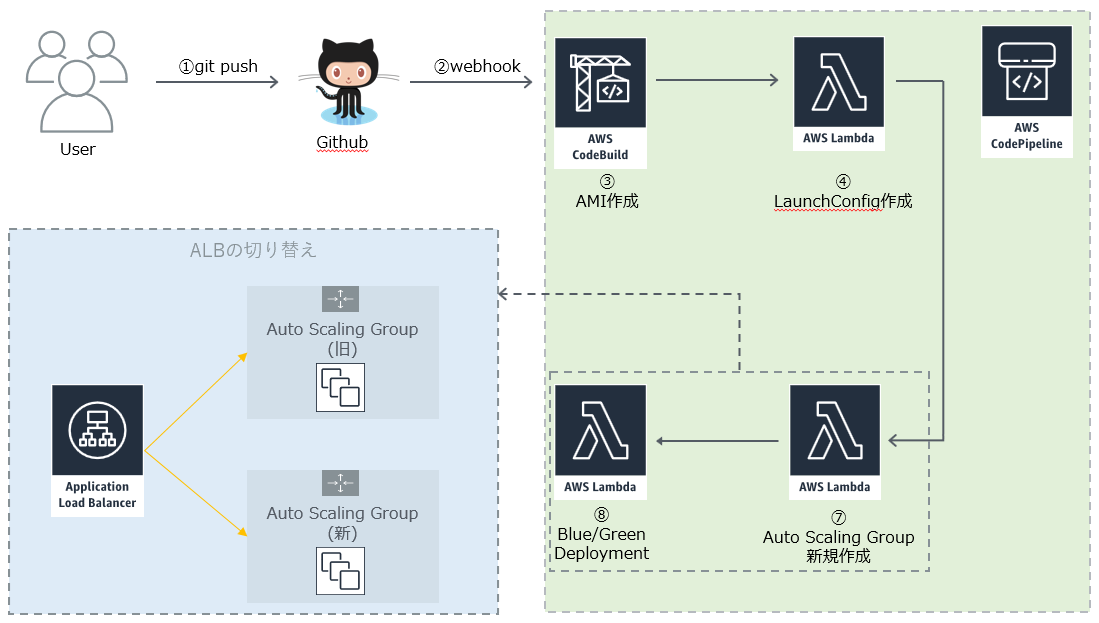
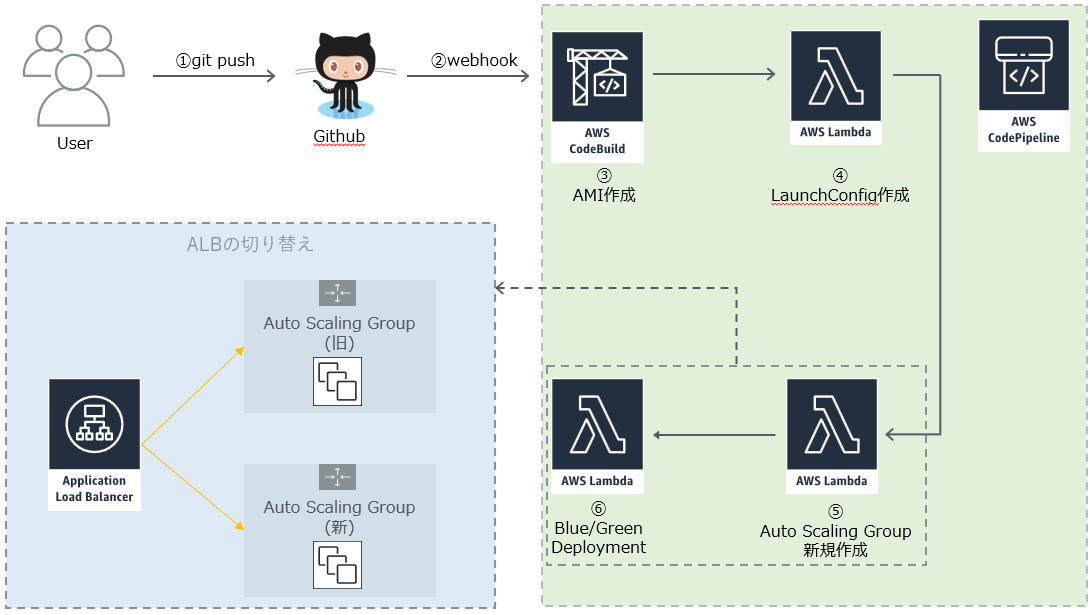
Modify README&Image

diff --git a/README.md b/README.md
@@ -1,14 +1,28 @@
-- 実行の流れ
-  1．Git push
-  2．Code Pipelineで検知
-  3．Code Build(1)を実行
-      - DokcerにPackerをインストール&実行
-      - PackerのイメージからEC2作成
-      - 作成したEC2でAnsible実行
-      - AMIを作成
-  4．Code Build(2)を実行
-      - テスト？
-  5．Code Deploy
+【AWS】AutoSCaling環境でのCI/CD
+==============================
 
-参考：
+# CI/CDの流れ
+
+![CI/Cd](https://github.com/Kohei040/aws_code_series_validation/raw/test/image/CICD_Flow.PNG)
+
+1. githubへpush
+1. CodePipelineで検知
+1. [CodeBuild]AMI作成
+1. [Lambda]LaunchConfig作成
+1. [Lambda]AutoScalingGroup作成
+1. [Lambda]Blue/Green deploymnet実施
+
+※2の手順以降は全てCodePipeline上で管理
+
+# Golden AMI作成方式
+
+![Create_GoledenAMI](https://github.com/Kohei040/aws_code_series_validation/raw/test/image/Create_Golden_AMI.PNG)
+
+1. CodeBuildの処理をするDockerコンテナを起動
+1. DockerコンテナにPacker&Ansibleインストール
+1. DockerコンテナがPackerの処理を実行
+1. Packerが指定したEC2を起動、Ansibleの処理実行
+1. EC2のAMIを取得、EC2削除
+
+# 参考
 https://github.com/awslabs/ami-builder-packer
